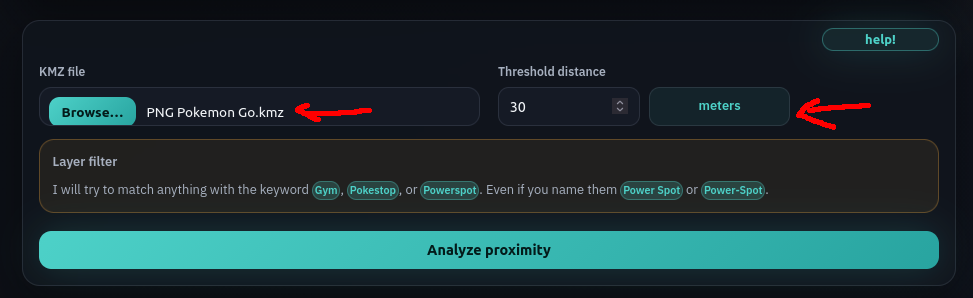
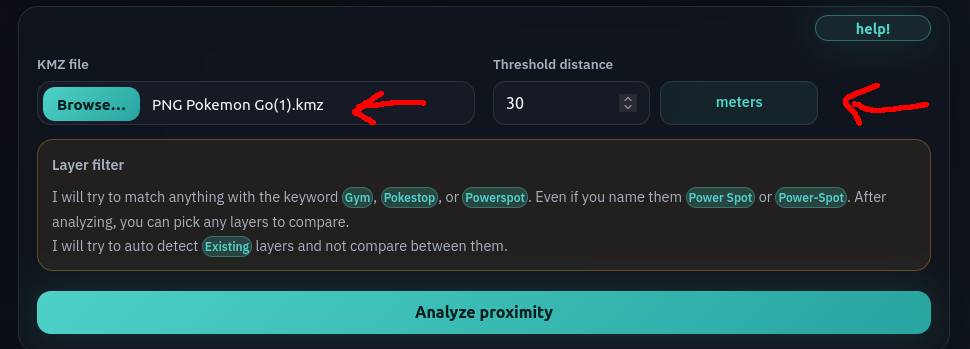
1. added not comparing to existing layers. 2. auto detect existing layers. 3. updated user manual

diff --git a/index.html b/index.html
@@ -397,16 +397,24 @@
       .layer-item {
         display: flex;
         align-items: center;
-        gap: 10px;
+        justify-content: space-between;
+        gap: 12px;
         padding: 10px 12px;
         border-radius: 12px;
         border: 1px solid rgba(140, 150, 170, 0.2);
         background: rgba(21, 27, 38, 0.75);
-        cursor: pointer;
       }
 
-      .layer-item input {
+      .layer-item input[type="checkbox"] {
         accent-color: var(--accent);
+      }
+
+      .layer-compare {
+        display: inline-flex;
+        align-items: center;
+        gap: 10px;
+        min-width: 0;
+        width: auto;
       }
 
       .layer-name {
@@ -415,12 +423,19 @@
       }
 
       .layer-meta {
-        margin-left: auto;
+        display: inline-flex;
+        flex-direction: column;
+        align-items: flex-end;
+        gap: 6px;
+        font-size: 0.75rem;
+        color: var(--muted);
+      }
+
+      .layer-meta-top {
         display: inline-flex;
         gap: 8px;
         align-items: center;
-        font-size: 0.75rem;
-        color: var(--muted);
+        justify-content: flex-end;
       }
 
       .layer-badge {
@@ -433,6 +448,27 @@
         font-size: 0.65rem;
         letter-spacing: 0.05em;
         text-transform: uppercase;
+      }
+
+      .existing-toggle {
+        display: inline-flex;
+        align-items: center;
+        gap: 6px;
+        padding: 2px 8px;
+        width: auto;
+        border-radius: 999px;
+        border: 1px solid rgba(243, 168, 59, 0.3);
+        background: rgba(243, 168, 59, 0.08);
+        color: var(--accent-warm);
+        font-size: 0.65rem;
+        font-weight: 700;
+        letter-spacing: 0.05em;
+        text-transform: uppercase;
+      }
+
+      .existing-toggle input[type="checkbox"] {
+        margin: 0;
+        accent-color: var(--accent-warm);
       }
 
       button {
@@ -934,8 +970,9 @@
                   <span class="tag">Powerspot</span>. Even if you name them
                   <span class="tag">Power Spot</span> or
                   <span class="tag">Power-Spot</span>. After analyzing, you can
-                  pick any layers to compare.</span
-                >
+                  pick any layers to compare. <br />  I will try to auto detect <span class="tag">Existing</span> layers and not compare between them.</span>
+                 
+
               </div>
 
               <div class="actions" style="margin-top: 6px">
@@ -1000,7 +1037,8 @@
               <h3>Layer selection</h3>
               <p>
                 Default selection uses keyword matching. Toggle layers to
-                compare different groups.
+                compare and mark any layer as Existing to skip Existing vs
+                Existing pairs.
               </p>
             </div>
             <div class="layer-actions">
@@ -1065,7 +1103,7 @@
         </div>
         <div class="modal-body">
           <ul>
-            <li><span>1.</span> Make sure your existing POI's and Suggested POI's layers have the keyword "gym", "powerspot" and "pokestop". Having a space or - does not matter.</li>
+            <li><span>1.</span> Make sure your existing POI's have the word "existing" + "gym", "powerspot" or "pokestop". And Suggested POI's layers have the keyword "gym", "powerspot" or "pokestop". Having a space or - does not matter.</li>
             <img class="user-manual-image" src="https://raw.githubusercontent.com/Cees-Kettenis/campsite-proximity-checker/refs/heads/main/assets/screenshots/1.png" />
             <li><span>2.</span> Export My Maps layer as a .kmz. Leave the option default on the popup.</li>
             <img class="user-manual-image" src="https://raw.githubusercontent.com/Cees-Kettenis/campsite-proximity-checker/refs/heads/main/assets/screenshots/2.png" />
@@ -1073,9 +1111,10 @@
             <img class="user-manual-image" src="https://raw.githubusercontent.com/Cees-Kettenis/campsite-proximity-checker/refs/heads/main/assets/screenshots/3.png" />
             <li><span>4.</span>Click Analyze proximity</li>
             <img class="user-manual-image" src="https://raw.githubusercontent.com/Cees-Kettenis/campsite-proximity-checker/refs/heads/main/assets/screenshots/4.png" />
-            <li><span>5.</span>The results will appear below. You can check the points that are to close, and ensure all layers are found.</li>
+            <li><span>5.</span>Select your layers and mark them as existing if not autodetected correctly.</li>
             <img class="user-manual-image" src="https://raw.githubusercontent.com/Cees-Kettenis/campsite-proximity-checker/refs/heads/main/assets/screenshots/5.png" />
-
+            <li><span>6.</span>Check your results below. And adjust your My Maps layers if needed.</li>
+            <img class="user-manual-image" src="https://raw.githubusercontent.com/Cees-Kettenis/campsite-proximity-checker/refs/heads/main/assets/screenshots/6.png" />
 
         </ul>
         </div>
@@ -1290,7 +1329,7 @@
       function buildLayerStats(points) {
         const map = new Map();
         for (const point of points) {
-          const key = layerKey(point.layer);
+          const key = point.layerKey || layerKey(point.layer);
           const label = layerLabel(point.layer);
           if (!map.has(key)) {
             map.set(key, {
@@ -1298,12 +1337,16 @@
               label,
               count: 0,
               matchesKeyword: layerMatches(point.layer),
+              isExisting: layerIsExisting(point.layer),
             });
           }
           const entry = map.get(key);
           entry.count += 1;
           if (!entry.matchesKeyword && layerMatches(point.layer)) {
             entry.matchesKeyword = true;
+          }
+          if (!entry.isExisting && layerIsExisting(point.layer)) {
+            entry.isExisting = true;
           }
         }
 
@@ -1322,45 +1365,74 @@
         layerPickerEl.classList.remove("hidden");
 
         for (const layer of layerStats) {
-          const row = document.createElement("label");
+          const row = document.createElement("div");
           row.className = "layer-item";
 
-          const checkbox = document.createElement("input");
-          checkbox.type = "checkbox";
-          checkbox.dataset.key = layer.key;
-          checkbox.checked = selectedKeys.has(layer.key);
-          checkbox.addEventListener("change", () => {
+          const compare = document.createElement("label");
+          compare.className = "layer-compare";
+
+          const compareCheckbox = document.createElement("input");
+          compareCheckbox.type = "checkbox";
+          compareCheckbox.dataset.key = layer.key;
+          compareCheckbox.dataset.role = "compare";
+          compareCheckbox.checked = selectedKeys.has(layer.key);
+          compareCheckbox.addEventListener("change", () => {
             applyLayerSelection();
           });
 
           const name = document.createElement("span");
           name.className = "layer-name";
           name.textContent = layer.label;
+          compare.append(compareCheckbox, name);
 
           const meta = document.createElement("span");
           meta.className = "layer-meta";
+
+          const metaTop = document.createElement("span");
+          metaTop.className = "layer-meta-top";
 
           const count = document.createElement("span");
           count.textContent = `${layer.count} point${
             layer.count === 1 ? "" : "s"
           }`;
-          meta.append(count);
+          metaTop.append(count);
 
           if (layer.matchesKeyword) {
             const badge = document.createElement("span");
             badge.className = "layer-badge";
             badge.textContent = "default";
-            meta.append(badge);
+            metaTop.append(badge);
           }
 
-          row.append(checkbox, name, meta);
+          const existingToggle = document.createElement("label");
+          existingToggle.className = "existing-toggle";
+
+          const existingCheckbox = document.createElement("input");
+          existingCheckbox.type = "checkbox";
+          existingCheckbox.dataset.role = "existing";
+          existingCheckbox.dataset.key = layer.key;
+          existingCheckbox.checked = Boolean(layer.isExisting);
+          existingCheckbox.addEventListener("change", () => {
+            setLayerExisting(layer.key, existingCheckbox.checked);
+          });
+
+          const existingText = document.createElement("span");
+          existingText.textContent = "existing";
+
+          existingToggle.append(existingCheckbox, existingText);
+          meta.append(metaTop);
+          meta.append(existingToggle);
+
+          row.append(compare, meta);
           layerListEl.append(row);
         }
       }
 
       function getSelectedLayerKeys() {
         const selected = new Set();
-        const inputs = layerListEl.querySelectorAll('input[type="checkbox"]');
+        const inputs = layerListEl.querySelectorAll(
+          'input[type="checkbox"][data-role="compare"]',
+        );
         for (const input of inputs) {
           if (input.checked) selected.add(input.dataset.key);
         }
@@ -1368,10 +1440,20 @@
       }
 
       function setLayerSelection(keys) {
-        const inputs = layerListEl.querySelectorAll('input[type="checkbox"]');
+        const inputs = layerListEl.querySelectorAll(
+          'input[type="checkbox"][data-role="compare"]',
+        );
         for (const input of inputs) {
           input.checked = keys.has(input.dataset.key);
         }
+        applyLayerSelection();
+      }
+
+      function setLayerExisting(key, isExisting) {
+        if (!lastAnalysis) return;
+        const layer = lastAnalysis.layerStats.find((entry) => entry.key === key);
+        if (!layer) return;
+        layer.isExisting = isExisting;
         applyLayerSelection();
       }
 
@@ -1385,12 +1467,12 @@
         const { fileName, kmlName, allPoints, layerStats } = lastAnalysis;
         const thresholdM = lastAnalysis.thresholdM;
 
-        const selectedLayers = layerStats.filter((layer) =>
-          selectedKeys.has(layer.key),
+        const existingLayerKeys = new Set(
+          layerStats.filter((layer) => layer.isExisting).map((layer) => layer.key),
         );
 
         const matchedPoints = allPoints.filter((point) =>
-          selectedKeys.has(layerKey(point.layer)),
+          selectedKeys.has(point.layerKey || layerKey(point.layer)),
         );
 
         updateMeta({
@@ -1425,7 +1507,9 @@
           return;
         }
 
-        const results = findClosePairs(matchedPoints, thresholdM);
+        const results = findClosePairs(matchedPoints, thresholdM, {
+          existingLayerKeys,
+        });
 
         updateMeta({
           fileName,
@@ -1516,6 +1600,12 @@
         );
       }
 
+      function layerIsExisting(layerName) {
+        if (!layerName) return false;
+        const normalized = normalizeLayerName(layerName);
+        return normalized.includes("existing");
+      }
+
       function extractPointsFromPlacemark(placemark) {
         const name = directName(placemark) || "(unnamed)";
         const layer = getLayerName(placemark);
@@ -1535,7 +1625,13 @@
           const lat = Number(parts[1]);
 
           if (isFinite(lat) && isFinite(lon)) {
-            points.push({ name, layer, lat, lon });
+            points.push({
+              name,
+              layer,
+              layerKey: layerKey(layer),
+              lat,
+              lon,
+            });
           }
         }
 
@@ -1595,7 +1691,8 @@
        * Find all point pairs within threshold using a simple grid hash (fast enough for lots of points).
        * We bucket points into cells roughly sized to the threshold so we only compare near neighbors.
        */
-      function findClosePairs(points, thresholdM) {
+      function findClosePairs(points, thresholdM, options = {}) {
+        const existingLayerKeys = options.existingLayerKeys || new Set();
         const metersPerDegLat = 111320; // approx
         const cellLatDeg = (thresholdM / metersPerDegLat) * 1.2; // padding
 
@@ -1625,6 +1722,8 @@
 
         for (let i = 0; i < points.length; i++) {
           const p = points[i];
+          const pLayerKey = p.layerKey || layerKey(p.layer);
+          const pIsExisting = existingLayerKeys.has(pLayerKey);
           const c = cellFixed(p);
 
           for (let dx = -1; dx <= 1; dx++) {
@@ -1636,6 +1735,11 @@
               for (const j of bucket) {
                 if (j <= i) continue;
                 const q = points[j];
+                const qLayerKey = q.layerKey || layerKey(q.layer);
+
+                if (pIsExisting && existingLayerKeys.has(qLayerKey)) {
+                  continue;
+                }
 
                 const pairKey = `${i}-${j}`;
                 if (seen.has(pairKey)) continue;

diff --git a/README.md b/README.md
@@ -3,22 +3,23 @@
 For the Community Ambassador who wants to check if their My Maps are correct.
 
 ## How It Works
-1. Make sure your existing POI's and Suggested POI's layers have the keyword "gym", "powerspot" and "pokestop". Having a space or - does not matter.
+
+1. Make sure your existing POI's have the word "existing" + "gym", "powerspot" or "pokestop". And Suggested POI's layers have the keyword "gym", "powerspot" or "pokestop". Having a space or - does not matter.
 
    ![Layer keywords example](https://raw.githubusercontent.com/Cees-Kettenis/campsite-proximity-checker/refs/heads/main/assets/screenshots/1.png)
-
 2. Export My Maps layer as a .kmz. Leave the option default on the popup.
 
    ![Export to KMZ example](https://raw.githubusercontent.com/Cees-Kettenis/campsite-proximity-checker/refs/heads/main/assets/screenshots/2.png)
-
 3. Select your KMZ file and set the distance threshold in meters. By default it will be set to 30 meters.
 
    ![Select file and threshold example](https://raw.githubusercontent.com/Cees-Kettenis/campsite-proximity-checker/refs/heads/main/assets/screenshots/3.png)
-
 4. Click Analyze proximity.
 
    ![Analyze proximity example](https://raw.githubusercontent.com/Cees-Kettenis/campsite-proximity-checker/refs/heads/main/assets/screenshots/4.png)
-
-5. The results will appear below. You can check the points that are too close and ensure all layers are found.
+5. Select your layers and mark them as existing if not autodetected correctly.
 
    ![Results example](https://raw.githubusercontent.com/Cees-Kettenis/campsite-proximity-checker/refs/heads/main/assets/screenshots/5.png)
+
+6. Check your results below. And adjust your My Maps layers if needed.
+
+   ![Results example](https://raw.githubusercontent.com/Cees-Kettenis/campsite-proximity-checker/refs/heads/main/assets/screenshots/6.png)
